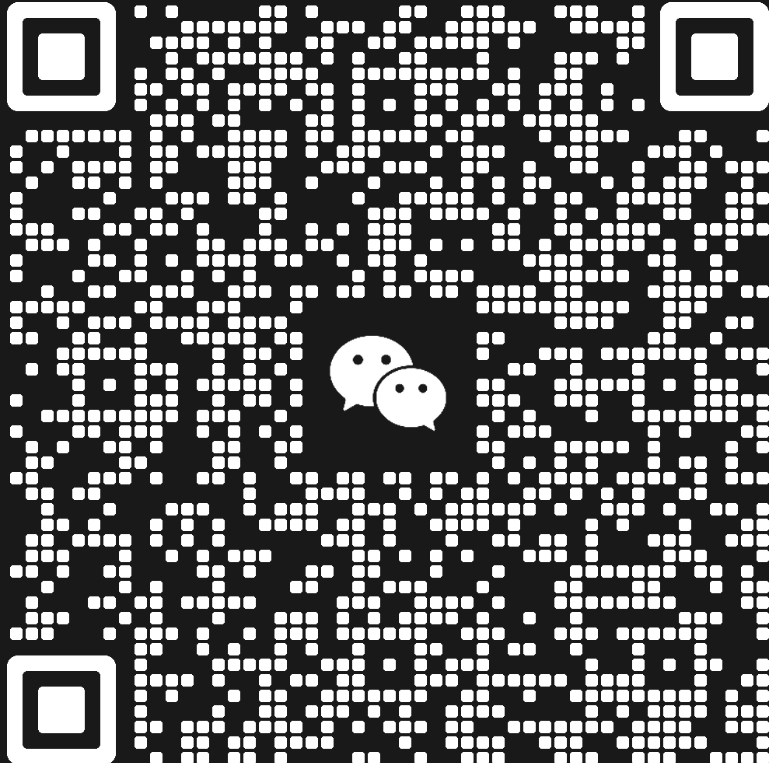
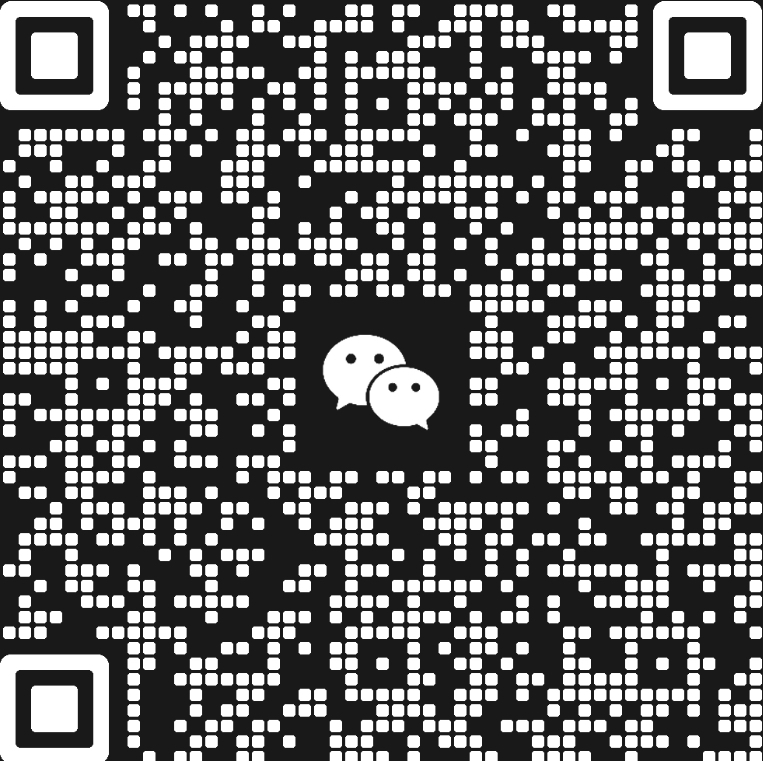
Update WeChat community QR code

diff --git a/docs/readme/README.ru.md b/docs/readme/README.ru.md
@@ -245,11 +245,9 @@ yay -S stably-orca-bin
 
 - **Discord:** Присоединяйтесь к сообществу в **[Discord](https://discord.gg/fzjDKHxv8Q)**.
 - **Twitter / X:** Подпишитесь на **[@orca_build](https://x.com/orca_build)**, чтобы узнавать об обновлениях и анонсах.
-- **WeChat:** Отсканируйте QR-код, чтобы присоединиться к группе сообщества Orca в WeChat. Если одна группа заполнена, присоединяйтесь к другой.
+- **WeChat:** Отсканируйте QR-код, чтобы присоединиться к группе сообщества Orca в WeChat.
 
-  <img src="../assets/wechat-qr-group14.jpg" alt="QR-код группы сообщества Orca в WeChat" width="160" />
-  <img src="../assets/wechat-qr-group15.jpg" alt="QR-код группы сообщества Orca в WeChat" width="160" />
-  <img src="../assets/wechat-qr-group16.jpg" alt="QR-код группы сообщества Orca в WeChat" width="160" />
+  <img src="../assets/wechat-qr.jpg" alt="QR-код группы сообщества Orca в WeChat" width="160" />
 
 - **Отзывы и идеи:** Мы быстро выпускаем обновления. Чего-то не хватает? [Предложите новую возможность](https://github.com/stablyai/orca/issues).
 - **Конфиденциальность:** В [документации о конфиденциальности и телеметрии](https://www.onorca.dev/docs/telemetry) описано, какие анонимные данные об использовании собирает Orca и как отказаться от их сбора.

diff --git a/docs/readme/README.tr.md b/docs/readme/README.tr.md
@@ -242,11 +242,9 @@ Ajanlarınızı telefonunuzdan izlemek ve yönlendirmek için masaüstü uygulam
 
 - **Discord:** Topluluğa **[Discord](https://discord.gg/fzjDKHxv8Q)** üzerinden katılın.
 - **Twitter / X:** Güncellemeler ve duyurular için **[@orca_build](https://x.com/orca_build)** hesabını takip edin.
-- **WeChat:** Orca topluluğunun bir WeChat grubuna katılmak için karekodu okutun. Bir grup doluysa başka bir gruba katılabilirsiniz.
+- **WeChat:** Orca topluluğunun bir WeChat grubuna katılmak için karekodu okutun.
 
-  <img src="../assets/wechat-qr-group14.jpg" alt="Orca topluluğunun WeChat grubu karekodu" width="160" />
-  <img src="../assets/wechat-qr-group15.jpg" alt="Orca topluluğunun WeChat grubu karekodu" width="160" />
-  <img src="../assets/wechat-qr-group16.jpg" alt="Orca topluluğunun WeChat grubu karekodu" width="160" />
+  <img src="../assets/wechat-qr.jpg" alt="Orca topluluğunun WeChat grubu karekodu" width="160" />
 
 - **Geri bildirim ve fikirler:** Hızlı sürüm çıkarıyoruz. Eksik bulduğunuz bir şey mi var? [Yeni bir özellik isteyin](https://github.com/stablyai/orca/issues).
 - **Gizlilik:** Orca'nın hangi anonim kullanım verisini topladığını ve bunu nasıl kapatacağınızı [gizlilik ve telemetri dokümanlarında](https://www.onorca.dev/docs/telemetry) bulabilirsiniz.

diff --git a/docs/readme/README.ko.md b/docs/readme/README.ko.md
@@ -244,11 +244,9 @@ yay -S stably-orca-bin
 
 - **Discord:** **[Discord](https://discord.gg/fzjDKHxv8Q)** 커뮤니티에 참여하세요.
 - **Twitter / X:** 업데이트와 공지는 **[@orca_build](https://x.com/orca_build)** 를 팔로우하세요.
-- **WeChat:** QR 코드를 스캔해 Orca 커뮤니티 WeChat 그룹에 참여하세요. 한 그룹이 가득 찼다면 다른 그룹에 참여하세요.
+- **WeChat:** QR 코드를 스캔해 Orca 커뮤니티 WeChat 그룹에 참여하세요.
 
-  <img src="../assets/wechat-qr-group14.jpg" alt="Orca 커뮤니티 WeChat 그룹 QR 코드" width="160" />
-  <img src="../assets/wechat-qr-group15.jpg" alt="Orca 커뮤니티 WeChat 그룹 QR 코드" width="160" />
-  <img src="../assets/wechat-qr-group16.jpg" alt="Orca 커뮤니티 WeChat 그룹 QR 코드" width="160" />
+  <img src="../assets/wechat-qr.jpg" alt="Orca 커뮤니티 WeChat 그룹 QR 코드" width="160" />
 
 - **피드백과 아이디어:** 우리는 빠르게 출시합니다. 필요한 기능이 있나요? [새 기능을 요청](https://github.com/stablyai/orca/issues)하세요.
 - **개인정보 보호:** Orca가 수집하는 익명 사용 데이터와 수집 거부 방법은 [개인정보 및 텔레메트리 문서](https://www.onorca.dev/docs/telemetry)를 참고하세요.

diff --git a/docs/readme/README.fr.md b/docs/readme/README.fr.md
@@ -249,11 +249,9 @@ Associez-la à l'app de bureau pour surveiller et piloter vos agents depuis votr
 
 - **Discord :** Rejoignez la communauté sur **[Discord](https://discord.gg/fzjDKHxv8Q)**.
 - **Twitter / X :** Suivez **[@orca_build](https://x.com/orca_build)** pour les news et annonces.
-- **WeChat :** Scannez pour rejoindre un groupe WeChat de la communauté Orca. Si un groupe est complet, rejoignez-en un autre.
+- **WeChat :** Scannez pour rejoindre un groupe WeChat de la communauté Orca.
 
-  <img src="../assets/wechat-qr-group14.jpg" alt="QR code du groupe WeChat de la communauté Orca" width="160" />
-  <img src="../assets/wechat-qr-group15.jpg" alt="QR code du groupe WeChat de la communauté Orca" width="160" />
-  <img src="../assets/wechat-qr-group16.jpg" alt="QR code du groupe WeChat de la communauté Orca" width="160" />
+  <img src="../assets/wechat-qr.jpg" alt="QR code du groupe WeChat de la communauté Orca" width="160" />
 
 - **Feedback &amp; idées :** On ship vite. Il manque quelque chose ? [Demandez une feature](https://github.com/stablyai/orca/issues).
 - **Confidentialité :** Voir la [doc confidentialité &amp; télémétrie](https://www.onorca.dev/docs/telemetry) pour ce qu'Orca collecte en anonyme et comment désactiver la télémétrie.

diff --git a/README.md b/README.md
@@ -292,11 +292,9 @@ Pair with your desktop app to monitor and steer your agents from your phone.
 
 - **Discord:** Join the community on **[Discord](https://discord.gg/fzjDKHxv8Q)**.
 - **Twitter / X:** Follow **[@orca_build](https://x.com/orca_build)** for updates and announcements.
-- **WeChat:** Scan to join an Orca community WeChat group. If one group is full, join another.
+- **WeChat:** Scan to join an Orca community WeChat group.
 
-  <img src="docs/assets/wechat-qr-group14.jpg" alt="WeChat QR code for the Orca community" width="160" />
-  <img src="docs/assets/wechat-qr-group15.jpg" alt="WeChat QR code for the Orca community" width="160" />
-  <img src="docs/assets/wechat-qr-group16.jpg" alt="WeChat QR code for the Orca community" width="160" />
+  <img src="docs/assets/wechat-qr.jpg" alt="WeChat QR code for the Orca community" width="160" />
 
 - **Feedback &amp; Ideas:** We ship fast. Missing something? [Request a new feature](https://github.com/stablyai/orca/issues).
 - **Privacy:** See the [privacy &amp; telemetry docs](https://www.onorca.dev/docs/telemetry) for what anonymous usage data Orca collects and how to opt out.

diff --git a/docs/readme/README.zh-CN.md b/docs/readme/README.zh-CN.md
@@ -242,11 +242,9 @@ yay -S stably-orca-bin
 
 - **Discord:** 加入 **[Discord](https://discord.gg/fzjDKHxv8Q)** 社区。
 - **Twitter / X:** 关注 **[@orca_build](https://x.com/orca_build)** 获取更新和公告。
-- **微信:** 扫码加入 Orca 社区微信群。如果一个群已满，可以加入其他群。
+- **微信:** 扫码加入 Orca 社区微信群。
 
-  <img src="../assets/wechat-qr-group14.jpg" alt="Orca 社区微信群二维码" width="160" />
-  <img src="../assets/wechat-qr-group15.jpg" alt="Orca 社区微信群二维码" width="160" />
-  <img src="../assets/wechat-qr-group16.jpg" alt="Orca 社区微信群二维码" width="160" />
+  <img src="../assets/wechat-qr.jpg" alt="Orca 社区微信群二维码" width="160" />
 
 - **反馈与想法:** 我们发布很快。缺少什么功能？[提交功能请求](https://github.com/stablyai/orca/issues)。
 - **隐私:** 查看[隐私与遥测文档](https://www.onorca.dev/docs/telemetry)，了解 Orca 收集哪些匿名使用数据以及如何退出。
